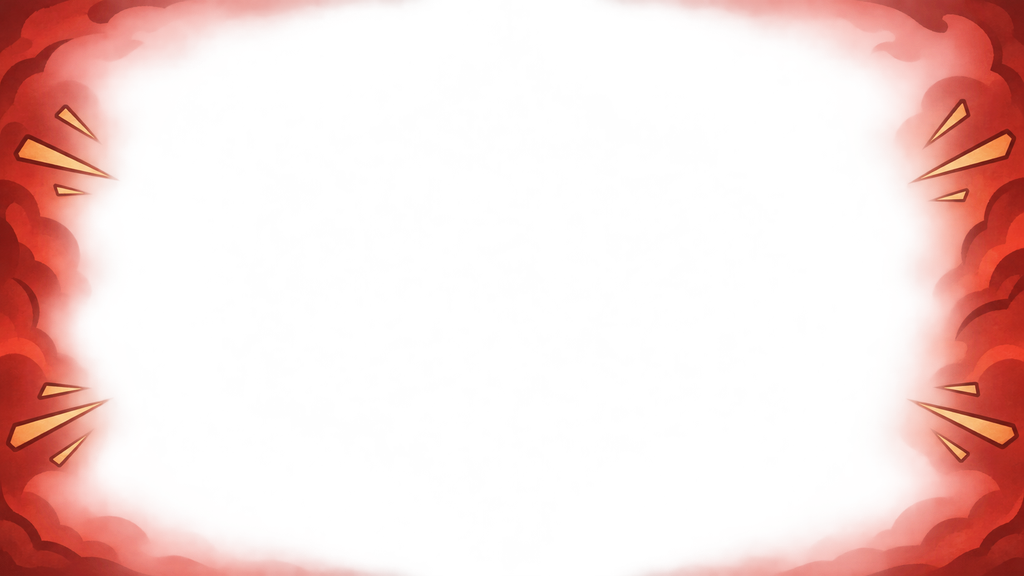
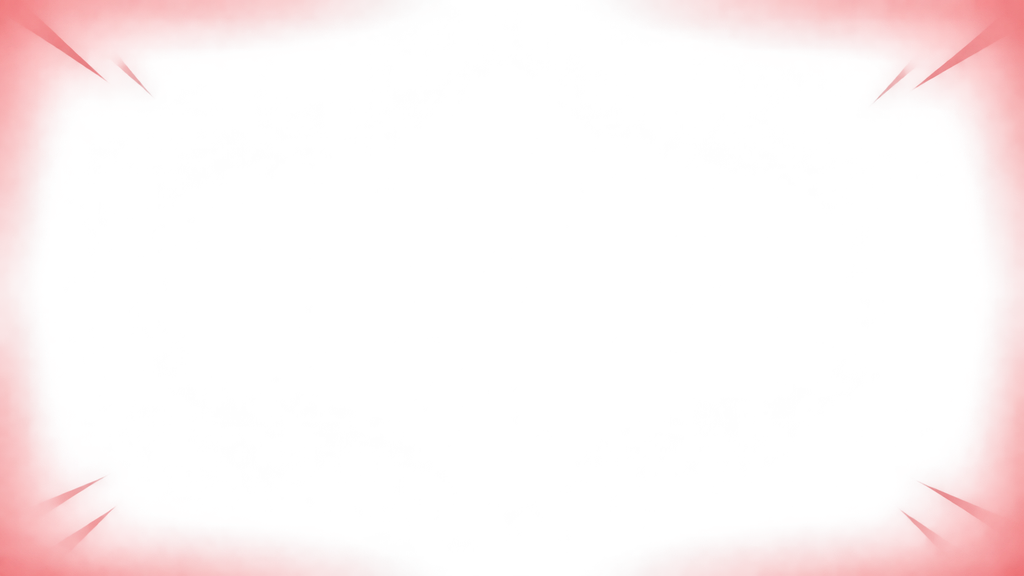
feat(ui): roleta e bordas de sofrimento novas, sem Acessórios, menu centrado e destaque do tutorial por dentro do slot

Changed region(s): [[0.6562, 0.0, 1.0, 1.0], [0.0, 0.0, 0.375, 1.0]]

diff --git a/assets/ui/hud/prepare_fx.py b/assets/ui/hud/prepare_fx.py
@@ -1,5 +1,7 @@
 """Prepara as bordas de sofrimento e o ícone da arma presa (arte do Elizeu,
-09/11, pasta "Hud do jogo", arquivos das 14:55).
+pasta "Hud do jogo"). Bordas novas de 10/11 na subpasta "Indicadores de dano"
+(dano, gelo, fogo, terra rachada da fome, água do fôlego); a sede e o ícone
+continuam os de 09/11 (arquivos das 14:55).
 
 Bordas: tela inteira com o meio transparente, reduzidas para 1024x576 (o
 Roblox reduz tudo para no máximo 1024 de qualquer jeito). Ícone: 256.
@@ -14,23 +16,24 @@ import sys
 from PIL import Image
 
 OUT = os.path.dirname(os.path.abspath(__file__))
-PREFIX = "Imagem do ChatGPT 9 de nov. de 2026, "
+OLD = "Imagem do ChatGPT 9 de nov. de 2026, "
+NEW = os.path.join("Indicadores de dano", "ChatGPT Image Nov 10, 2026, ")
 
-# arquivo -> (nome, tamanho final)
+# arquivo (relativo à pasta "Hud do jogo") -> (nome, tamanho final)
 PIECES = {
-    "14_55_11-1.png": ("fx_damage", (1024, 576)),  # vermelho, golpe
-    "14_55_11-2.png": ("fx_cold", (1024, 576)),  # gelo
-    "14_55_12-3.png": ("fx_heat", (1024, 576)),  # brasas e lava
-    "14_55_13-4.png": ("fx_hunger", (1024, 576)),  # terra e coxinhas
-    "14_55_13-5.png": ("fx_thirst", (1024, 576)),  # gotas nos cantos
-    "14_55_14-6.png": ("fx_oxygen", (1024, 576)),  # ondas e bolhas
-    "14_55_14-7.png": ("icon_weapon_lock", (256, 256)),  # espada, machado e picareta
+    NEW + "10_28_49 AM-5.png": ("fx_damage", (1024, 576)),  # bordas vermelhas
+    NEW + "10_28_47 AM-1.png": ("fx_cold", (1024, 576)),  # neve e cristais de gelo
+    NEW + "10_28_47 AM-2.png": ("fx_heat", (1024, 576)),  # fogo
+    NEW + "10_28_48 AM-3.png": ("fx_hunger", (1024, 576)),  # terra rachada
+    OLD + "14_55_13-5.png": ("fx_thirst", (1024, 576)),  # gotas nos cantos
+    NEW + "10_28_48 AM-4.png": ("fx_oxygen", (1024, 576)),  # água e bolhas
+    OLD + "14_55_14-7.png": ("icon_weapon_lock", (256, 256)),  # espada, machado e picareta
 }
 
 
 def main(source):
     for file, (name, size) in PIECES.items():
-        image = Image.open(os.path.join(source, PREFIX + file)).convert("RGBA")
+        image = Image.open(os.path.join(source, file)).convert("RGBA")
         image = image.resize(size, Image.LANCZOS)
         image.save(os.path.join(OUT, name + ".png"))
         print(f"{name}.png: {size[0]}x{size[1]}")

diff --git a/docs/game-design/assets-ui-loja.md b/docs/game-design/assets-ui-loja.md
@@ -2,7 +2,9 @@
 
 O Elizeu gerou por IA e mandou em `Downloads/UI Assets` (08–09/11). Este documento é o plano de uso. **Nada disso entra agora** (decisão do Elizeu, 09/11): o foco é a UI do Ranking; estes assets ficam guardados para depois. As fontes recortadas vão para `assets/ui/shop/` e os ids para `src/shared/ShopImages.luau` (envio na conta do Elizeu, com confirmação dele).
 
-## 1. Borda da roleta com o ponteiro (`borda da roleta com o ponteiro.png`, 1254×1254)
+## 1. Borda da roleta com o ponteiro (`borda da roleta com o ponteiro.png`, 1254×1254) — FEITO (10/11)
+
+No jogo desde 10/11: moldura e disco num quadro de 640×640 (`assets/ui/shop/wheel-frame.png` e `wheel-disc.png`), com a abertura do anel (690 px na arte, centro em 619, 628) centrada e o disco ajustado a ela. A camada de ponteiro saiu (`ShopImages.WHEEL_POINTER = ""`), porque o ponteiro já vem na moldura. Os cartões de giro passaram a ser 4 (sem Acessórios), em 4 colunas no PC e 2 no celular.
 
 Anel de madeira com gemas laranja, folhas embaixo e o ponteiro triangular já preso no topo.
 

diff --git a/docs/guia/hud.md b/docs/guia/hud.md
@@ -81,7 +81,7 @@ O `StatusVignette` é um ScreenGui próprio, atrás do HUD, cobrindo a tela toda
 
 A força cresce até 60% perto do zero; zerada (quando a barra começa a machucar), a borda fica cheia e pulsa. Sem arte, cada borda são quatro faixas em degradê feitas por código. Com uma imagem em `HudImages.FX[efeito]` (tela inteira, transparente no meio), a imagem entra no lugar dela.
 
-As seis bordas têm arte do Elizeu (`assets/ui/hud/fx_*.png`, preparadas por `prepare_fx.py`, 1024×576, esticadas na tela). O relógio da arma presa mostra o ícone `ICON.weapon_lock` no medalhão, com os segundos num selo embaixo.
+As seis bordas têm arte do Elizeu (`assets/ui/hud/fx_*.png`, preparadas por `prepare_fx.py`, 1024×576, esticadas na tela). Em 10/11/2026 entraram as novas de dano, frio, calor, fome (terra rachada) e fôlego (água e bolhas), da pasta "Indicadores de dano"; a sede continua com a de 09/11. O relógio da arma presa mostra o ícone `ICON.weapon_lock` no medalhão, com os segundos num selo embaixo.
 
 ## Painel da caixa
 
